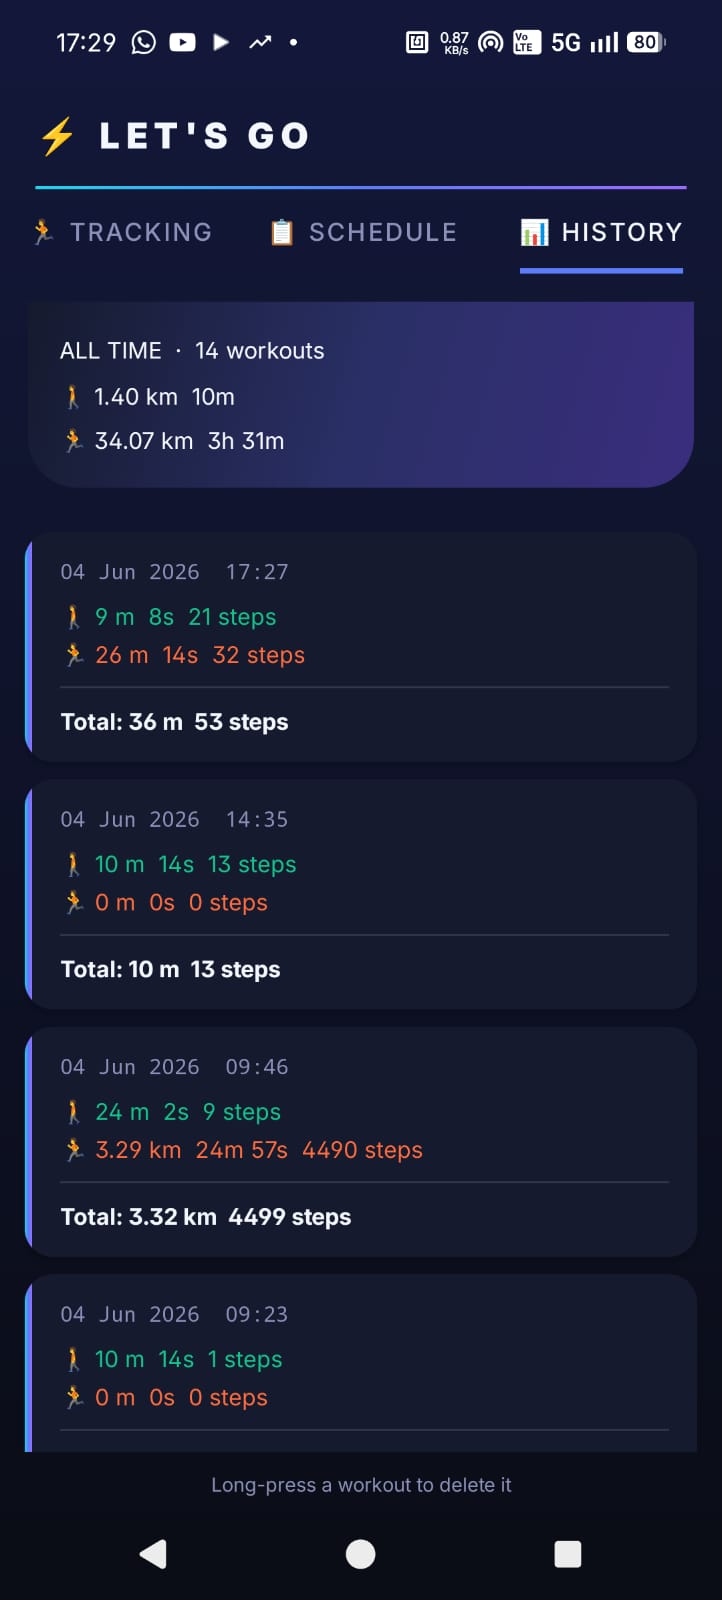
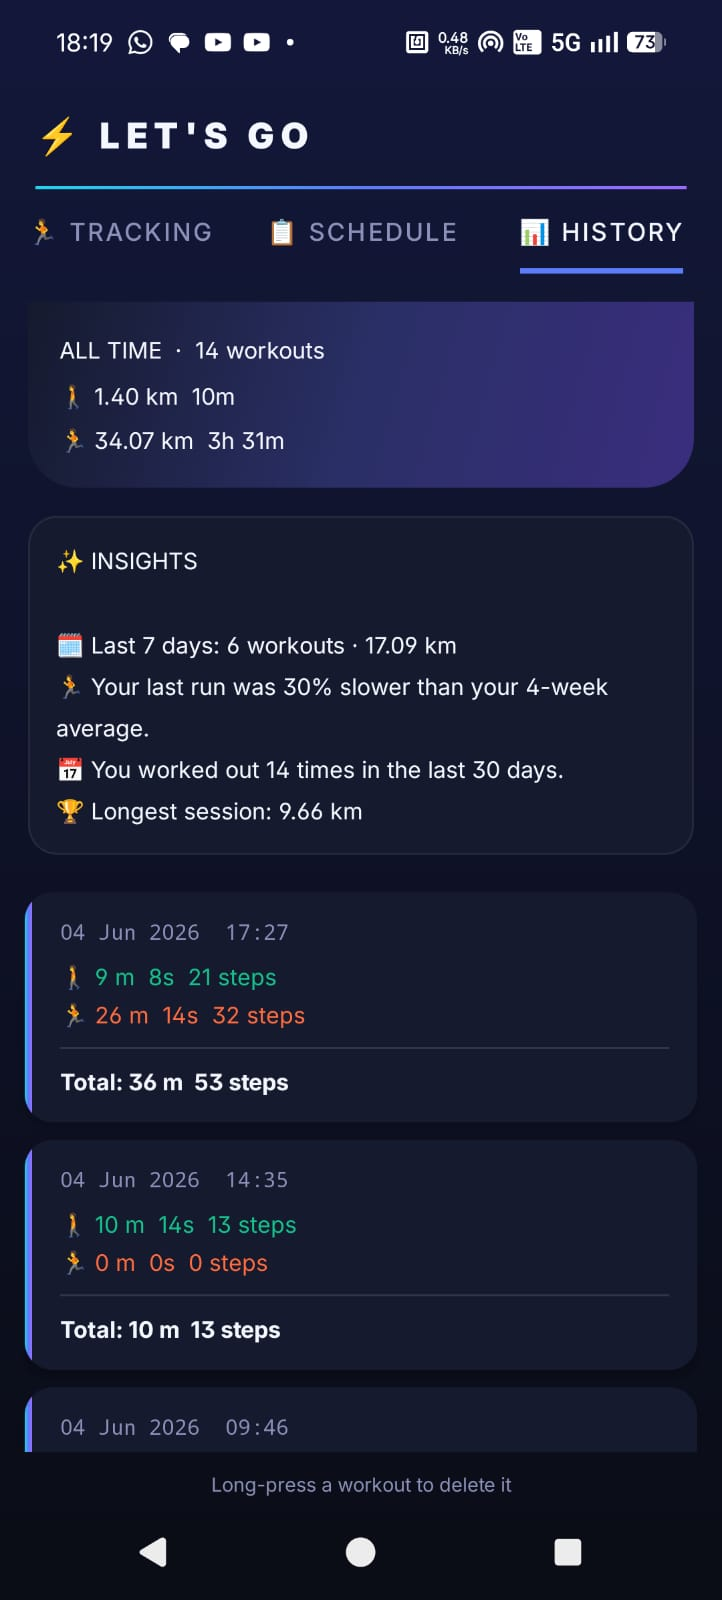
Update README: insights screenshot + features
Replaces the History screenshot with one showing the new Insights card, relabels the column, and documents Insights + Room-backed history in the features table.

diff --git a/README.md b/README.md
@@ -6,9 +6,9 @@ Android app for live step counting, walk/run classification, GPS distance, inter
 
 ## Screenshots
 
-| Tracking | Schedule | History |
-|:--------:|:--------:|:-------:|
-| <img src="Screenshots/tracking.jpeg" width="240" alt="Live tracking tab" /> | <img src="Screenshots/schedule.jpeg" width="240" alt="Interval schedule tab" /> | <img src="Screenshots/history.jpeg" width="240" alt="Workout history tab" /> |
+| Tracking | Schedule | History + Insights |
+|:--------:|:--------:|:------------------:|
+| <img src="Screenshots/tracking.jpeg" width="240" alt="Live tracking tab" /> | <img src="Screenshots/schedule.jpeg" width="240" alt="Interval schedule tab" /> | <img src="Screenshots/history.jpeg" width="240" alt="Workout history with auto-generated insights" /> |
 
 ## Features
 
@@ -18,7 +18,8 @@ Android app for live step counting, walk/run classification, GPS distance, inter
 | **Distance** | Uses calibrated stride length per activity; GPS augments distance when location permission is granted. |
 | **Calibration** | Wizard measures walk/jog stride length (sensor + optional GPS) and stores values in `UserPrefs`. |
 | **Schedules** | Build timed intervals (walk/jog/rest); 3-2-1 prep countdown, period timers, audio cues, persistence across rotation. |
-| **History** | Completed sessions saved to `WorkoutHistory` (steps, distance, duration per activity type). |
+| **History** | Completed sessions persisted in a **Room (SQLite)** database (steps, distance, duration per activity type). |
+| **Insights** | Auto-generated summary at the top of History: last-7-day activity, running pace vs your 4-week average, day streak, 30-day frequency, and longest-session personal best. |
 
 ## Requirements
 
